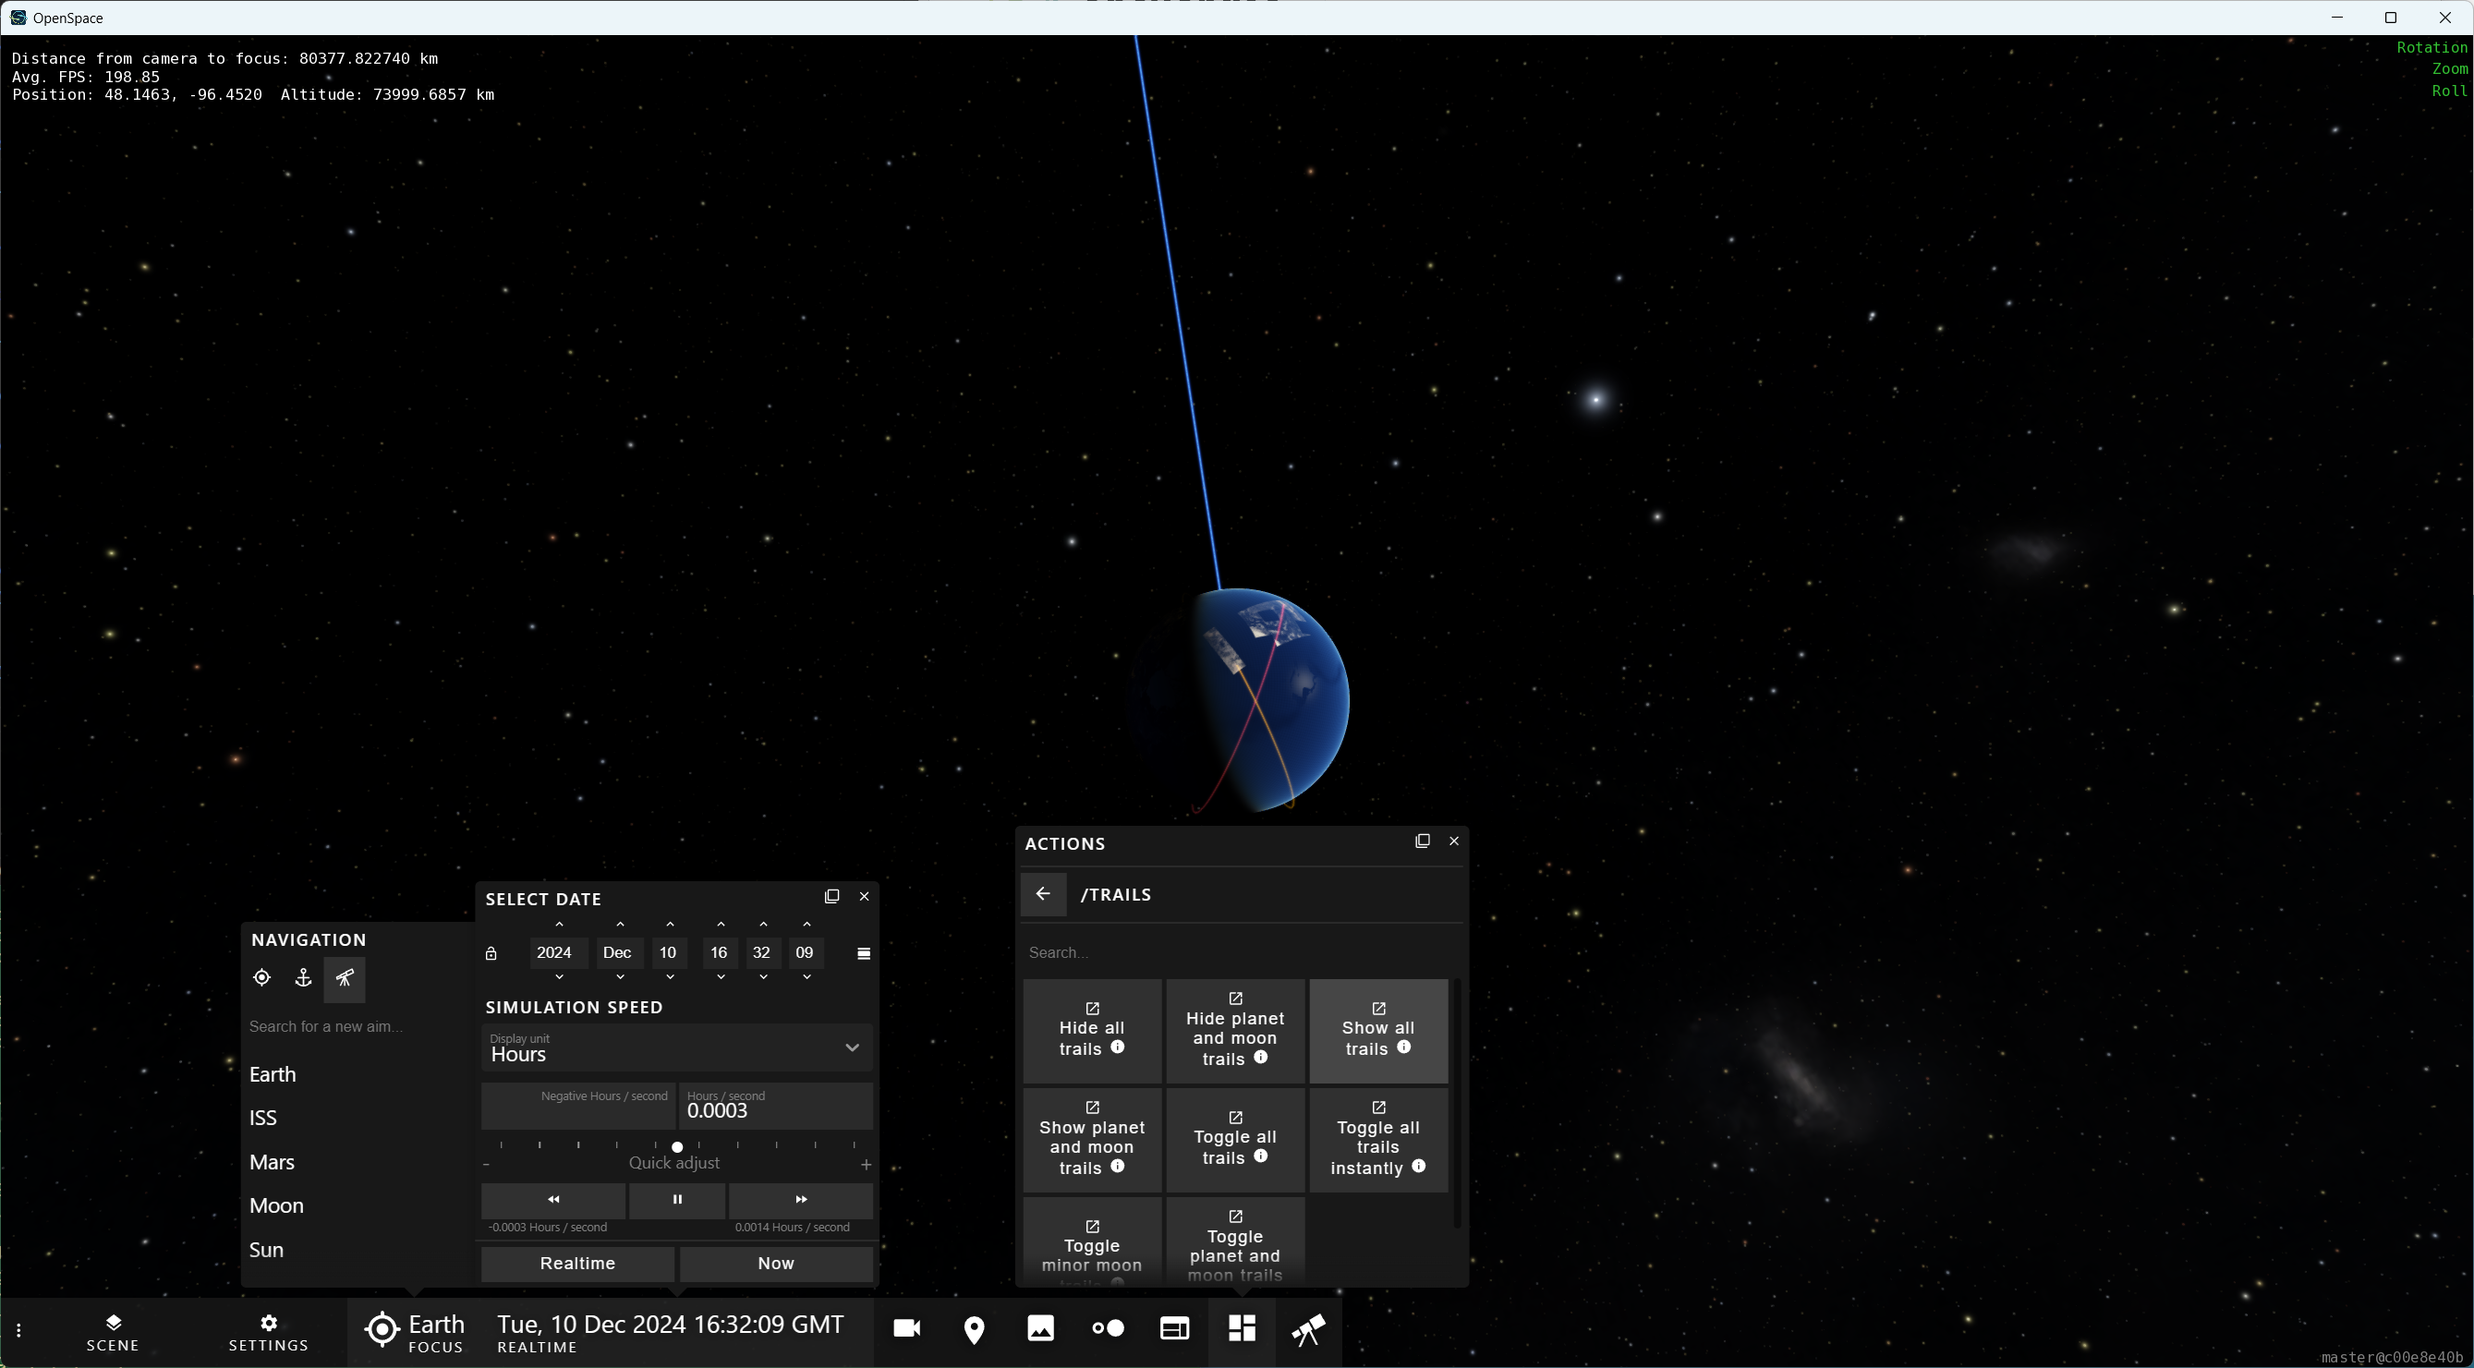
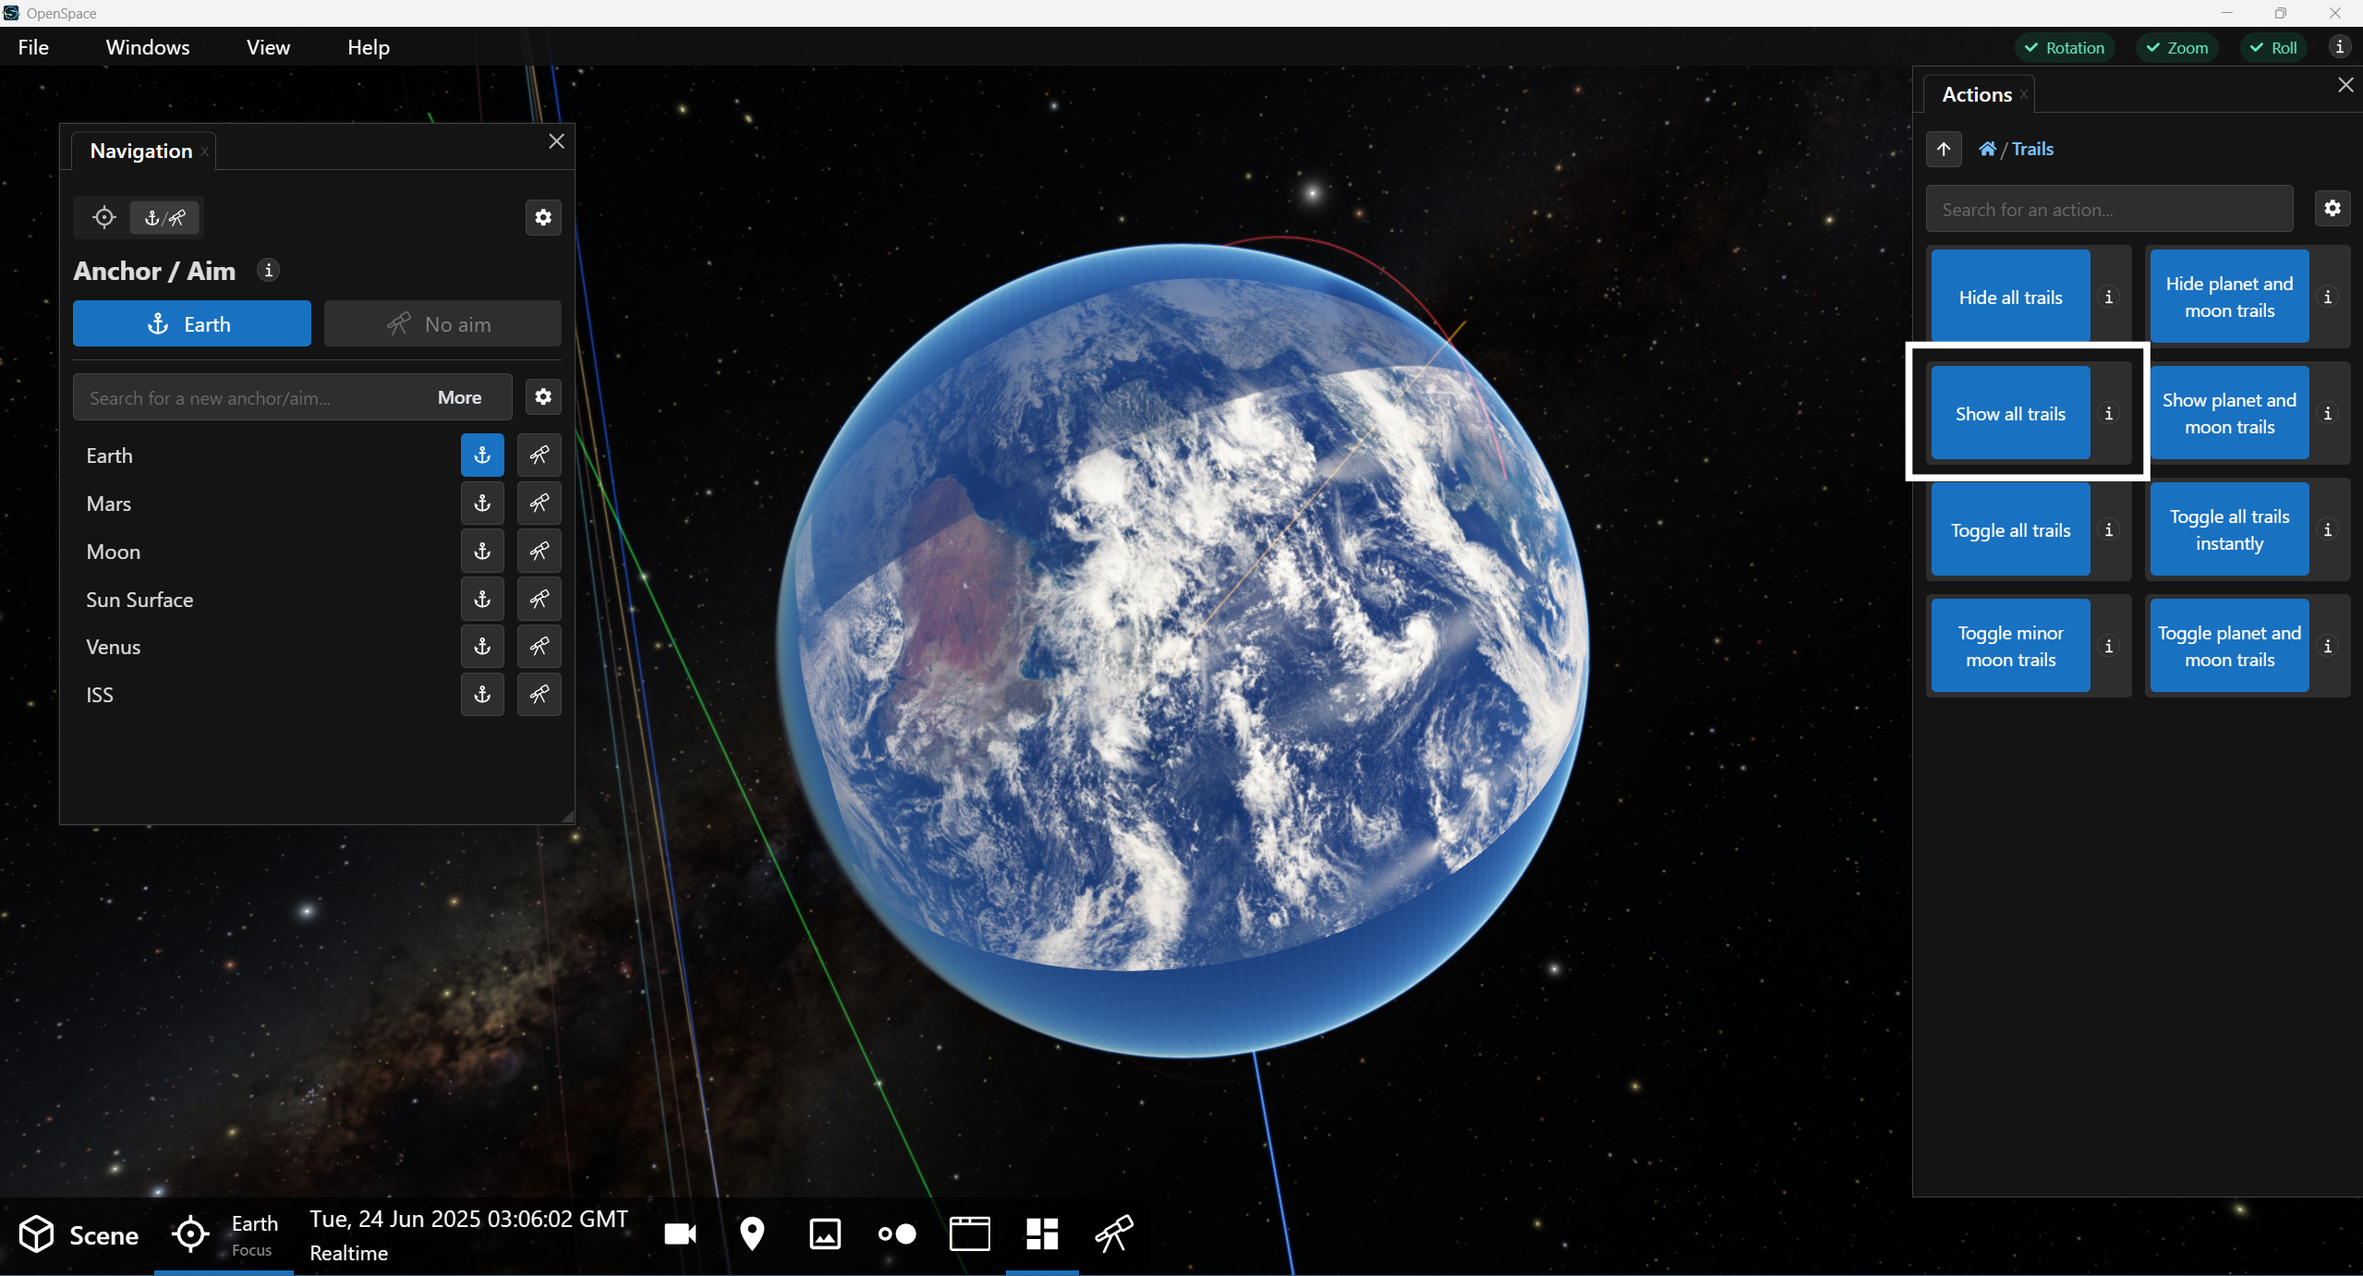
Update images in Navigation Panel

diff --git a/using-openspace/navigation-panel/index.md b/using-openspace/navigation-panel/index.md
@@ -9,6 +9,7 @@ authors:
 
 :::{figure} toolbar_navigation.png
 :align: center
+:width: 1000px
 :alt: Toolbar with the Navigation Panel highlighted
 :::
 
@@ -24,8 +25,7 @@ The name of the object that is set to Focus will appear in the toolbar button, i
 
 :::{figure} /getting-started/orientation/panel_navigation.png
 :align: center
-:width: 50%
-:figwidth: 80%
+:width: 400px
 :alt: OpenSpace's Navigation Panel
 
 The Navigation Panel, with a top, iconized menu that determines which menu is displayed below.
@@ -35,10 +35,8 @@ The Navigation Panel, with a top, iconized menu that determines which menu is di
 
 
 The panel has an iconized submenu at the top that determines what you see in the panel:
-- ![focus button](/getting-started/orientation/navigation_panel_focus_button.png) --- The target button shows the list of objects that you can quickly designate as Focus, and includes a search box to choose other data sets that don't appear in the menu.
-- ![anchor button](/getting-started/orientation/navigation_panel_anchor_button.png) --- The anchor brings the list of objects that one can set as the anchor.
-- ![aim button](/getting-started/orientation/navigation_panel_aim_button.png) --- The telescope button brings up a list of objects that one can choose to aim toward.
-
+- ![focus button](/getting-started/orientation/navigation_panel_mode_focus.png){h=2em} --- The target button shows the list of objects that you can quickly designate as Focus, and includes a search box to choose other data sets that don't appear in the menu.
+- ![Anchor/Aim](/getting-started/orientation/navigation_panel_mode_anchoraim.png){h=2em} --- The achor and aim button brings up a menu where you can choose one object to anchor to and another one to aim toward.
 
 ## Focus
 
@@ -90,8 +88,7 @@ Once you change your target, there are several ways to fly to that object.
 - Because OpenSpace has centered the object up, you can use the Zoom Flight Mode and fly directly to it yourself at your own pace.
 - ![refocus button](/getting-started/orientation/navigation_panel_panfly.png){w=25px} You can use the Refocus Button to have OpenSpace fly there by taking a straight line to the object but panning your view for a graceful tansition.
 - ![fly to button](/getting-started/orientation/navigation_panel_fly.png){w=25px} You can use the Fly To Button to have OpenSpace fly to the object using a curved path to the target.
-- Or, you can see a few more options on the context menu ![nav panel context menu](/getting-started/orientation/navigation_panel_context_menu_button.png), which offers the above options plus:
-  * ![jump to button](/getting-started/orientation/navigation_panel_jump_button.png){w=25px} The Jump To Button which fades your view to black, then fades back up beside the object.
+- ![jump to button](/getting-started/orientation/navigation_panel_jump_button.png){w=25px} The Jump To Button which fades your view to black, then fades back up beside the object.
 
 
 :::{dropdown} Changing the Flight Transition Time
@@ -109,12 +106,12 @@ While Focus chooses an object to center and navigate around, Anchor and Aim allo
 
 ### Anchor an Object
 
-![anchor button](/getting-started/orientation/navigation_panel_anchor_button.png) The Anchor panel menu reveals the list of possible objects to set as your anchor. Once you choose an object from the list, or search for an existing asset, it sets that object to the Focus. So, like Focus Mode, it will center the object up in the Graphics Window, and your navigation will revolve around that object.
+![anchor button](/getting-started/orientation/navigation_panel_anchor_button.png){h=2em} The Anchor panel menu reveals the list of possible objects to set as your anchor. Once you choose an object from the list, or search for an existing asset, it sets that object to the Focus. So, like Focus Mode, it will center the object up in the Graphics Window, and your navigation will revolve around that object.
 
 
 ### Aim Toward an Object
 
-![aim to button](/getting-started/orientation/navigation_panel_aim_button.png) Once an object is set to Anchor, you can then set a different object to aim toward. This allows you to keep one object as your focus while looking toward another object. This is useful when, for example, you want to follow the space station as it orbits Earth, but keep Earth in view as time moves forward.
+![aim to button](/getting-started/orientation/navigation_panel_aim_button.png){h=2em} Once an object is set to Anchor, you can then set a different object to aim toward. This allows you to keep one object as your focus while looking toward another object. This is useful when, for example, you want to follow the space station as it orbits Earth, but keep Earth in view as time moves forward.
 
 :::::::
 
@@ -133,7 +130,7 @@ This tutorial will demonstrate how you can use the Navigation Panel to explore d
 - Explore the Focus Mode.
 - Understand how flying works with your focus.
 - Use the Anchor & Aim Mode to orchestrate more complex scenes.
-  
+
 We will also use the Time Panel, which we will cover in more detail.
 :::::
 
@@ -160,7 +157,7 @@ We will also use the Time Panel, which we will cover in more detail.
 [![Earth](earth.png)](earth.png)
 
 {.tutorial}
-1. Bring up the Navigation Panel and detach it from the Toolbar by clicking the icon beside the close icon in the upper-right corner of the panel window.
+1. Bring up the Navigation Panel by clicking its button in the Toolbar.
 2. Move the panel off to the right and out of the way.
 
 
@@ -199,7 +196,7 @@ We will also use the Time Panel, which we will cover in more detail.
 [![Approaching Moon](approach_moon.png)](approach_moon.png)
 
 {.tutorial}
-1. {octicon}`rocket;1.25em;profile-tour-action` Fly to the Moon manually.
+1. {octicon}`rocket;1.25em;profile-tour-action` Fly to the Moon manually by holding down the {kbd}`right mouse button`.
 2. {octicon}`rocket;1.25em;profile-tour-action` Orbit from a reasonable distance so that you see Earth in the background.
 
 
@@ -211,11 +208,11 @@ We will also use the Time Panel, which we will cover in more detail.
 [![Moon targeted, aiming to Earth](target_moon_aim_earth.png)](target_moon_aim_earth.png)
 
 {.tutorial}
-1. In the anchor submenu of the panel, confirm that the Moon is set to Anchor.
-2. {octicon}`telescope;1.25em;profile-tour-action` In the Aim submenu, choose Earth. This will keep your spaceship aimed toward Earth and move Earth to the center, behind the Moon.
+1. Open the Anchor and Aim submenu of the panel, confirm that the Moon is set to Anchor.
+2. {octicon}`telescope;1.25em;profile-tour-action` Choose Earth as the Aim by clicking the telescopr button next to Earth. This will keep your spaceship aimed toward Earth and move Earth to the center, behind the Moon.
 3. {octicon}`rocket;1.25em;profile-tour-action` Orbit a bit to bring Earth back into view.
 4. {octicon}`stopwatch;1.25em;profile-tour-action` Use the Time Panel to change the Simulation Speed to 1 hour/second.
-5. As the clock goes, we are traveling with the Moon, but looking toward Earth. 
+5. As the clock goes, we are traveling with the Moon, but looking toward Earth.
 6. As the Moon orbits Earth, we will follow alongside it.
 7. {octicon}`stopwatch;1.25em;profile-tour-action` Pause time.
 
@@ -227,9 +224,9 @@ We will also use the Time Panel, which we will cover in more detail.
 
 {.tutorial}
 1. {octicon}`telescope;1.25em;profile-tour-action` In the Focus submenu, set Earth as the Focus.
-2. {octicon}`rocket;1.25em;profile-tour-action` Fly to Earth using the Pan & Fly Button ![Pan & Fly](../../getting-started/orientation/navigation_panel_panfly.png).
+2. {octicon}`rocket;1.25em;profile-tour-action` Fly to Earth using the Pan & Fly Button ![Pan & Fly](../../getting-started/orientation/navigation_panel_panfly.png){h=2em}.
 3. {octicon}`rocket;1.25em;profile-tour-action` Fly back out to the Moon manually using the {kbd}`right mouse button`.
-4. {octicon}`rocket;1.25em;profile-tour-action` Revisit Earth using the Fly To button ![Fly to](../../getting-started/orientation/navigation_panel_fly.png). Notice this is a curved path.
+4. {octicon}`rocket;1.25em;profile-tour-action` Revisit Earth using the Fly To button ![Fly to](../../getting-started/orientation/navigation_panel_fly.png){h=2em}. Notice this is a curved path.
 
 
 
@@ -249,7 +246,7 @@ We will also use the Time Panel, which we will cover in more detail.
 
 
 :::{tip}
-You can see where the ISS is by the shading on its orbital path. If the ISS is out of view---in other words, it's on the opposite side of Earth---you run the risk of flying right through Earth. This is inelegant. It's best to manually orbit Earth to bring the ISS into view in front of Earth, then fly toward it. 
+You can see where the ISS is by the shading on its orbital path. If the ISS is out of view---in other words, it's on the opposite side of Earth---you run the risk of flying right through Earth. This is inelegant. It's best to manually orbit Earth to bring the ISS into view in front of Earth, then fly toward it.
 :::
 
 
@@ -260,7 +257,7 @@ You can see where the ISS is by the shading on its orbital path. If the ISS is o
 [![Turn off trails](hide_trails.png)](hide_trails.png)
 
 {.tutorial}
-1. {octicon}`rocket;1.25em;profile-tour-action` Move Earth to see its horizon using the {kbd}`Ctrl` + {kbd}`left mouse button`.
+1. {octicon}`rocket;1.25em;profile-tour-action` Rotate around ISS to see the Earth's horizon.
 2. {octicon}`rocket;1.25em;profile-tour-action` Level the horizon using the {kbd}`Shift` + {kbd}`left mouse button` so that Earth fills the bottom half of your view.
 3. {octicon}`diff-removed;1.25em;profile-tour-action` Turn off trails using {menuselection}`Action --> Trails --> Hide All Trails`.
 4. {octicon}`stopwatch;1.25em;profile-tour-action` Set the clock speed at 1 second/second by hitting the `Realtime` button.
@@ -279,7 +276,8 @@ You can see where the ISS is by the shading on its orbital path. If the ISS is o
 
 {.tutorial}
 1. {octicon}`telescope;1.25em;profile-tour-action` In the Navigation Panel, use the Aim submenu to set the Aim to Earth. This will move you so you're directly looking down on the ISS and Earth.
-2. {octicon}`rocket;1.25em;profile-tour-action`  Use the Pan Flight Mode ({kbd}`Ctrl` + {kbd}`left mouse button`) to see Earth's horizon again. You may have to adjust your distance from the ISS.
+2. {octicon}`rocket;1.25em;profile-tour-action` Rotate around ISS to see Earth's horizon again.
+2. {octicon}`rocket;1.25em;profile-tour-action` Use the Pan Flight Mode ({kbd}`Ctrl` + {kbd}`left mouse button`) to move ISS out of the center.
 3. {octicon}`stopwatch;1.25em;profile-tour-action` Increase the Simulation Time to 5 seconds/second. Now, the ISS rotates a bit, but Earth remains stationary in your view as we follow the ISS around it. This is more manageable. You can increase the simulation time with the Quick Adjust Slider to see the ISS rotate more quickly.
 4. {octicon}`stopwatch;1.25em;profile-tour-action` Reset the Simulation Time back to normal by pressing the `Realtime` button.
 
@@ -318,8 +316,10 @@ You can see where the ISS is by the shading on its orbital path. If the ISS is o
 [![Focus on Phobos](phobos_focus_afar.png)](phobos_focus_afar.png)
 
 {.tutorial}
-1. {octicon}`telescope;1.25em;profile-tour-action` Using the Scene Menu, set Mars' moon Phobos as the Focus. \
+1. {octicon}`telescope;1.25em;profile-tour-action` Focus Phobos using one of the following two ways:
+  - Using the Scene Menu, set Mars' moon Phobos as the Focus. \
 {menuselection}`Scene --> Solar System --> Planets --> Mars --> Moons --> Phobos --> Phobos`.
+  - Using the Navigation Menu, search for Phobos in Focus menu and select it.
 2. {octicon}`rocket;1.25em;profile-tour-action` Approach Phobos so it's in the foreground.
 
 [![Phobos](phobos.png)](phobos.png)
@@ -342,7 +342,7 @@ You can see where the ISS is by the shading on its orbital path. If the ISS is o
 [![Mars and moons](mars_and_moons.png)](mars_and_moons.png)
 
 {.tutorial}
-1. {octicon}`stopwatch;1.25em;profile-tour-action` Set the Simulation Time to 5 minutes / second by right-clicking inside the input box and typing `5`.
+1. {octicon}`stopwatch;1.25em;profile-tour-action` Set the Simulation Time to 5 minutes / second by clicking inside the input box and typing `5`.
 2. {octicon}`rocket;1.25em;profile-tour-action` Fly out to see Mars and it's moon's orbits.
 3. Now, Phobos remains stationary but everything else is moving slowly.
 
@@ -369,11 +369,11 @@ You can see where the ISS is by the shading on its orbital path. If the ISS is o
 [![Scale up Moon](scale_up_moon.png)](scale_up_moon.png)
 
 {.tutorial}
-1. Jump To Earth. Use the Focus submenu context menu, ![Context menu](../../getting-started/orientation/navigation_panel_context_menu_button.png), then hit Jump To ![Jump to](../../getting-started/orientation/navigation_panel_jump_button.png). This takes you directly to Earth and sets it as Focus.
+1. Jump To Earth, by pressing the Jump To button [Jump to](../../getting-started/orientation/navigation_panel_jump_button.png){h=2em} in the Focus submenu. This takes you directly to Earth and sets it as Focus.
 2. {octicon}`stopwatch;1.25em;profile-tour-action` Pause time.
 3. {octicon}`rocket;1.25em;profile-tour-action` Orbit to locate the Moon.
-4. {octicon}`tools;1.25em;profile-tour-action` Increase the Moon's Scale to 25. {menuselection}`Scene --> Solar System --> Planets --> Earth --> Moon --> Moon --> Scale`. Right-click in the text input box and type `25`, then press {kbd}`Enter`.
-5. {octicon}`telescope;1.25em;profile-tour-action` Aim at the Moon: {menuselection}`Navigation --> Aim submenu --> Moon`.
+4. {octicon}`tools;1.25em;profile-tour-action` Increase the Moon's Scale to 25. {menuselection}`Scene --> Solar System --> Planets --> Earth --> Moon --> Moon --> Scale`. Click in the text input box and type `25`, then press {kbd}`Enter`.
+5. {octicon}`telescope;1.25em;profile-tour-action` Aim at the Moon. In the Navigation Panel, select the Anchor & Aim submenu and click the telescope button next to Moon.
 6. {octicon}`rocket;1.25em;profile-tour-action` Orbit a bit to move the Moon away from Earth.
 7. {octicon}`stopwatch;1.25em;profile-tour-action` Set the Simulation Time to 1 day/second.
 8. Watch the Moon's phases as it orbits Earth.
@@ -385,6 +385,6 @@ You can see where the ISS is by the shading on its orbital path. If the ISS is o
 
 ### Conclusion
 
-This tutorial exercised your use of the Navigation Panel and, to some degree gave you an introduction to the Time Panel. We demonstrated several means of navigating around space, whether manually or using one of the automated flight functions. And, we showed the utility and differences between Focus, Anchor, and Aim when bringing an object front and center.
+This tutorial exercised your use of the Navigation Panel and, to some degree gave you an introduction to the Time Panel and Scene Panel. We demonstrated several means of navigating around space, whether manually or using one of the automated flight functions. And, we showed the utility and differences between Focus, Anchor, and Aim when bringing an object front and center.
 
 ::::::::
